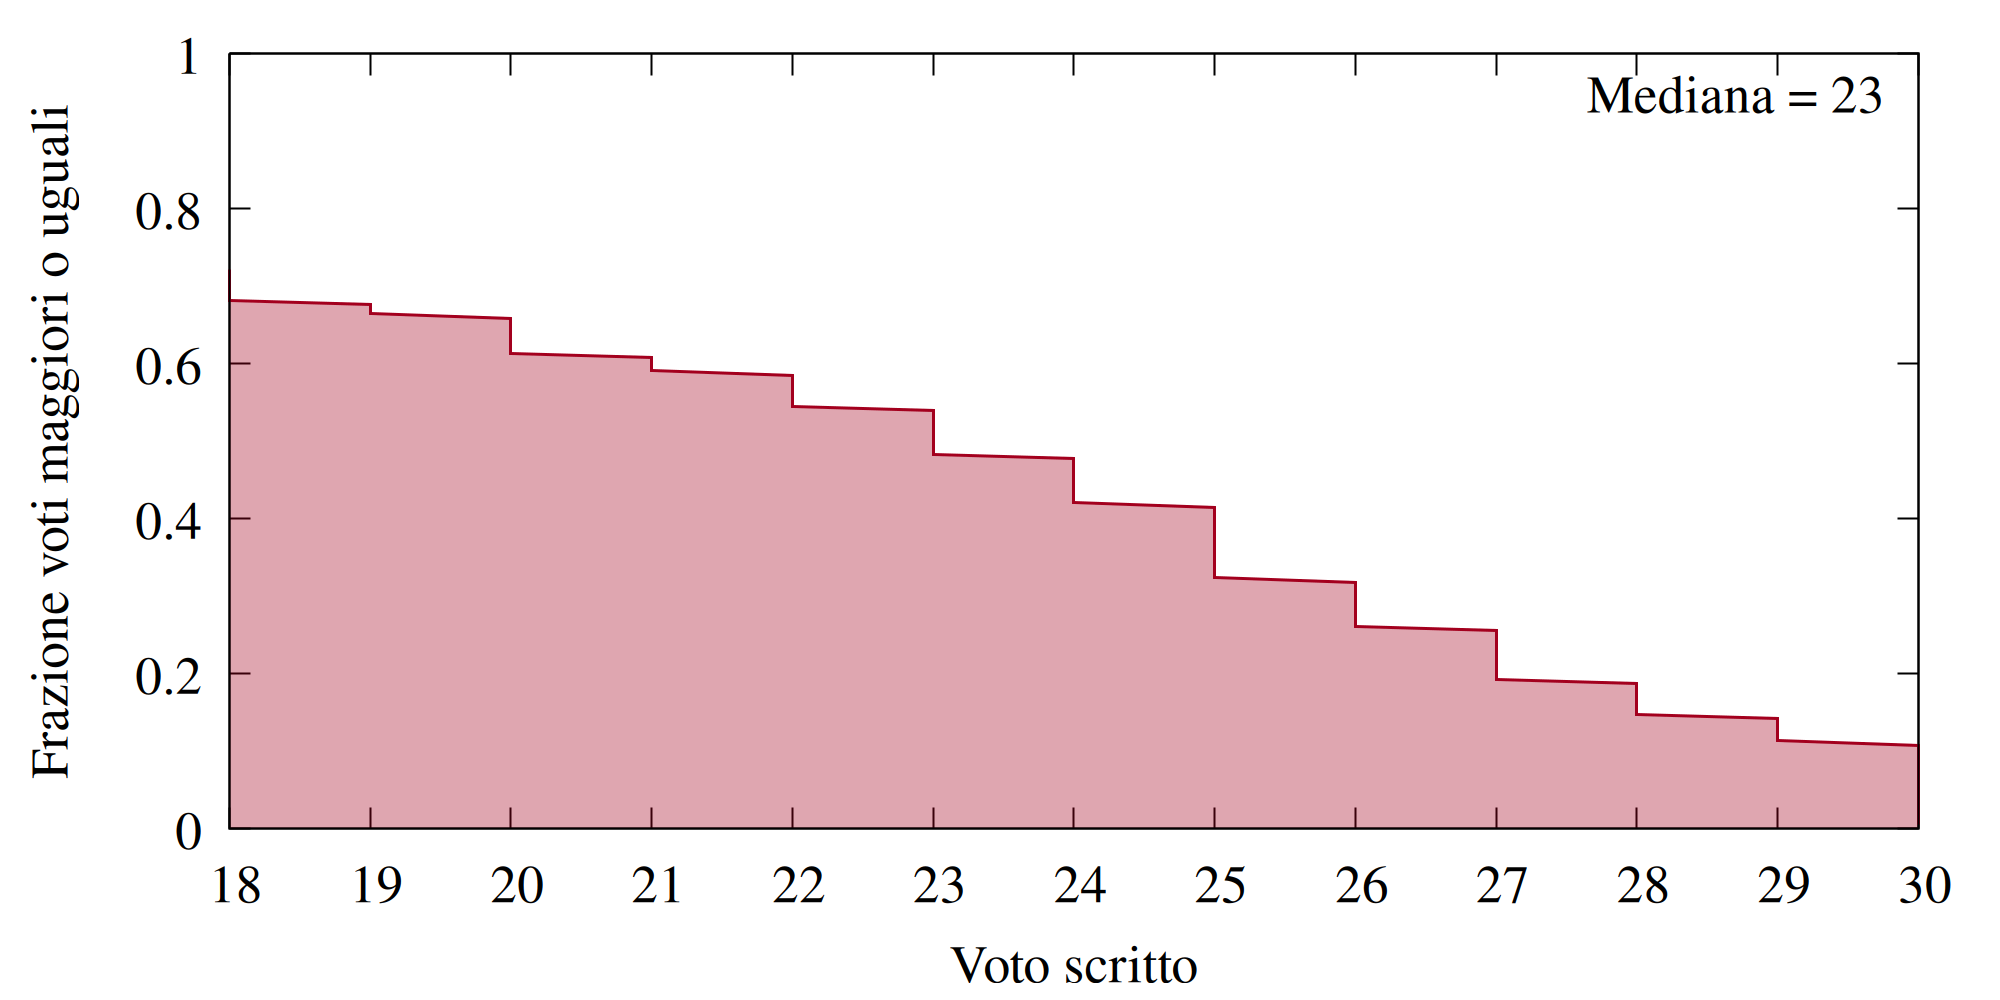
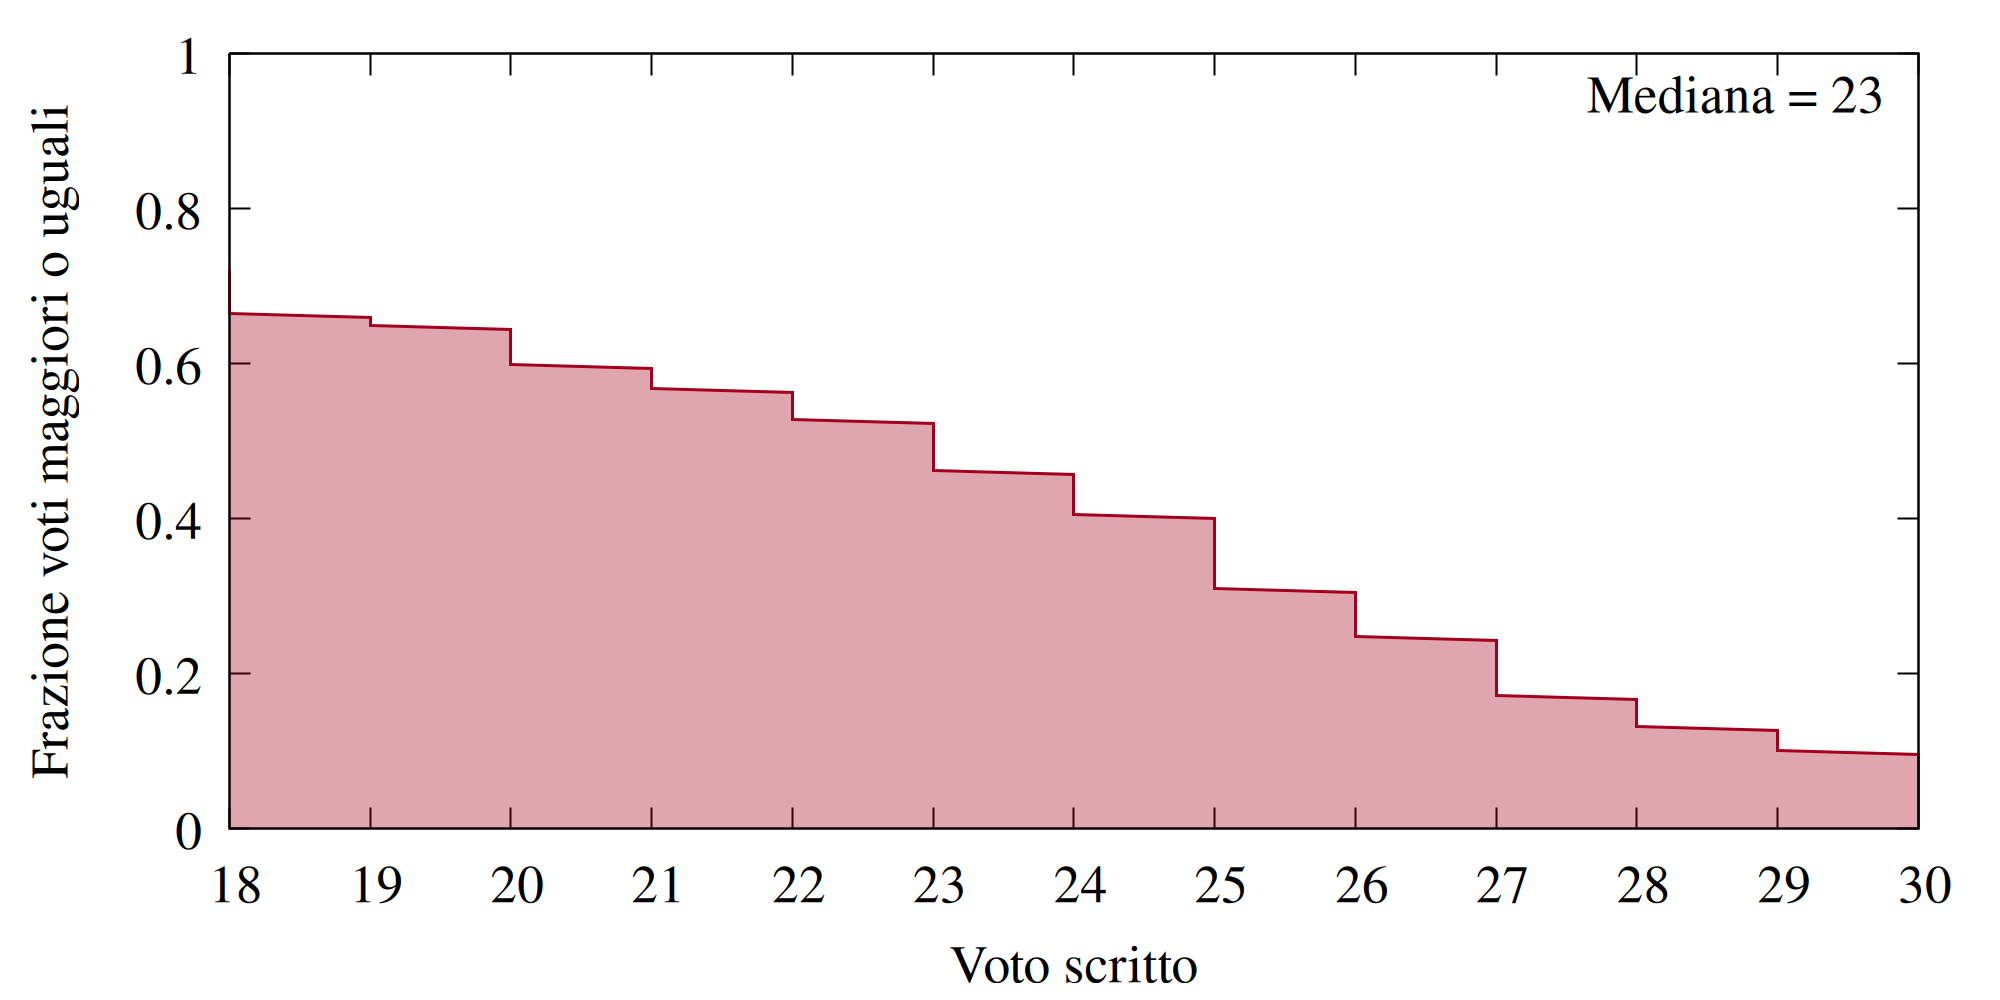
plot

diff --git a/docs/teaching/fmath2/fismat2/index.html b/docs/teaching/fmath2/fismat2/index.html
@@ -682,8 +682,8 @@ Quando rifletto su ciò che le persone in genere vogliono ottenere da un calcolo
 <td style="text-align:left"><strong>2026</strong></td>
 <td><a href="../exams/20260113.pdf" title="79% - Media promossi: 24">13-01</a></td>
 <td><a href="../exams/20260126.pdf" title="68% - Media promossi: 23.2">26-01</a></td>
-<td><a href="../exams/20260608.pdf" title="67% - Media promossi: --">08-06</a></td>
-<td><a href="../exams/20260622.pdf" title="--% - Media promossi: --">22-06</a></td>
+<td><a href="../exams/20260608.pdf" title="67% - Media promossi: 24">08-06</a></td>
+<td><a href="../exams/20260622.pdf" title="60% - Media promossi: --">22-06</a></td>
 <td><a href="../exams/20260706.pdf" title="--% - Media promossi: --">06-07</a></td>
 <td><a href="../exams/20260918.pdf" title="--% - Media promossi: --">18-09</a></td>
 </tr>
